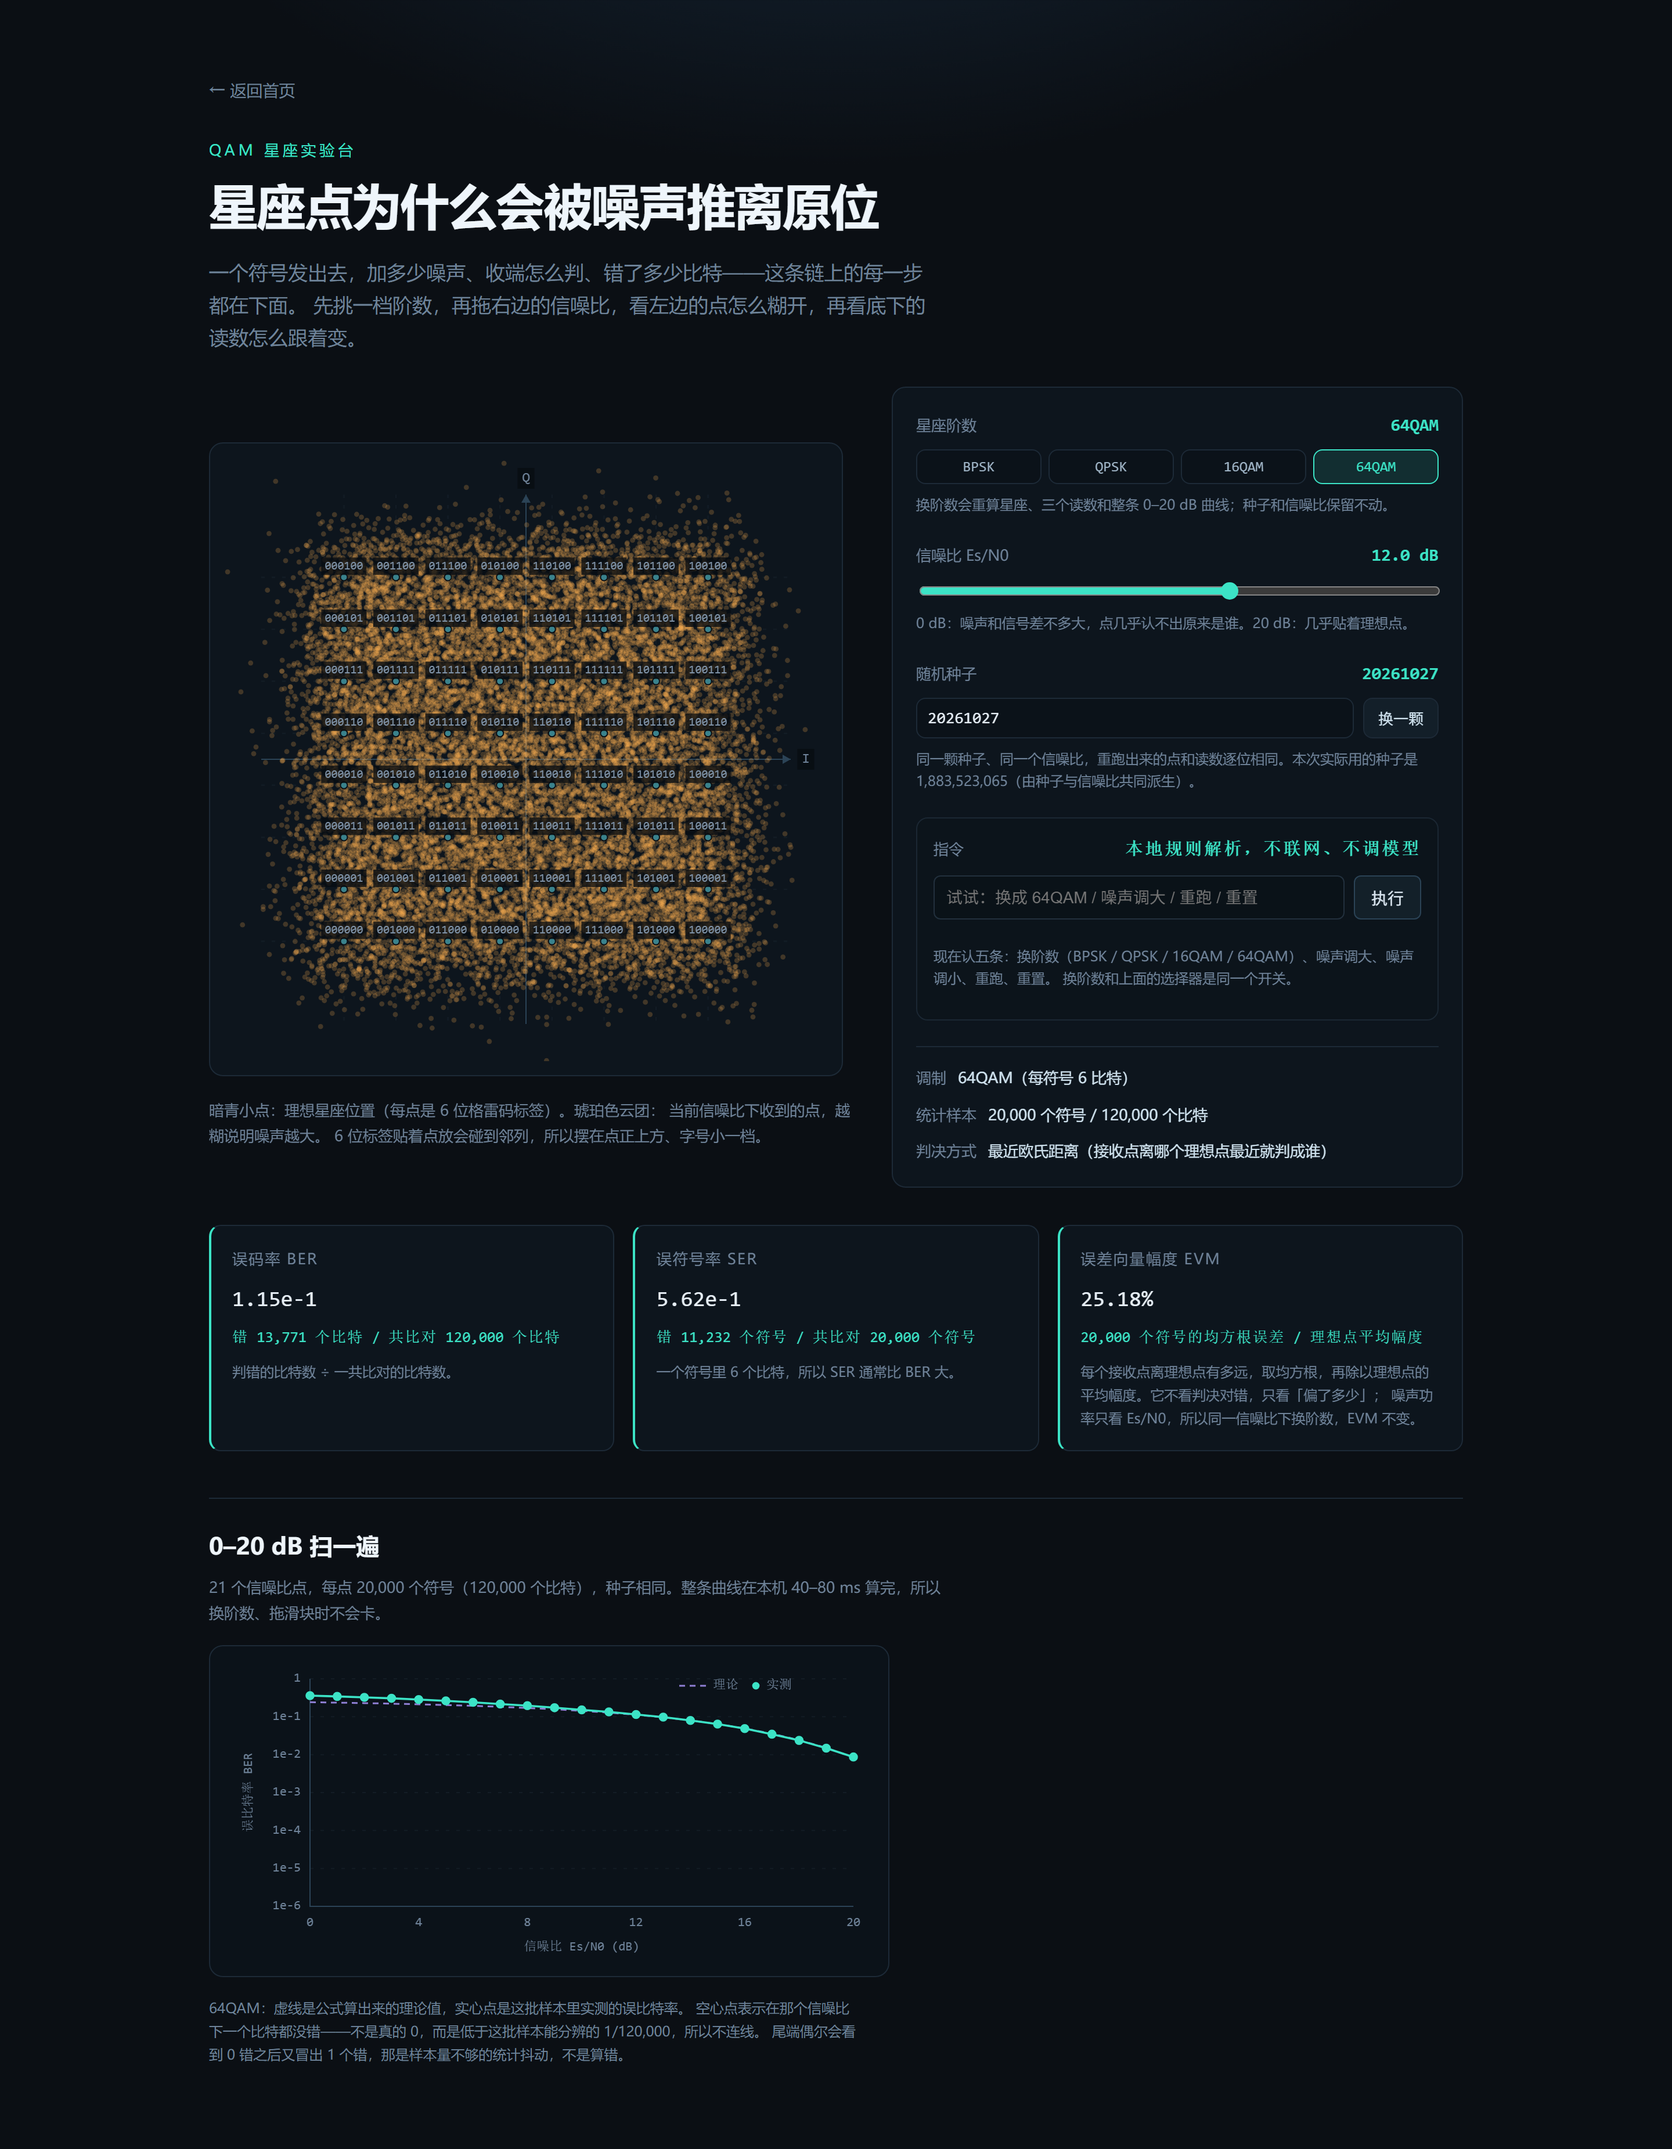
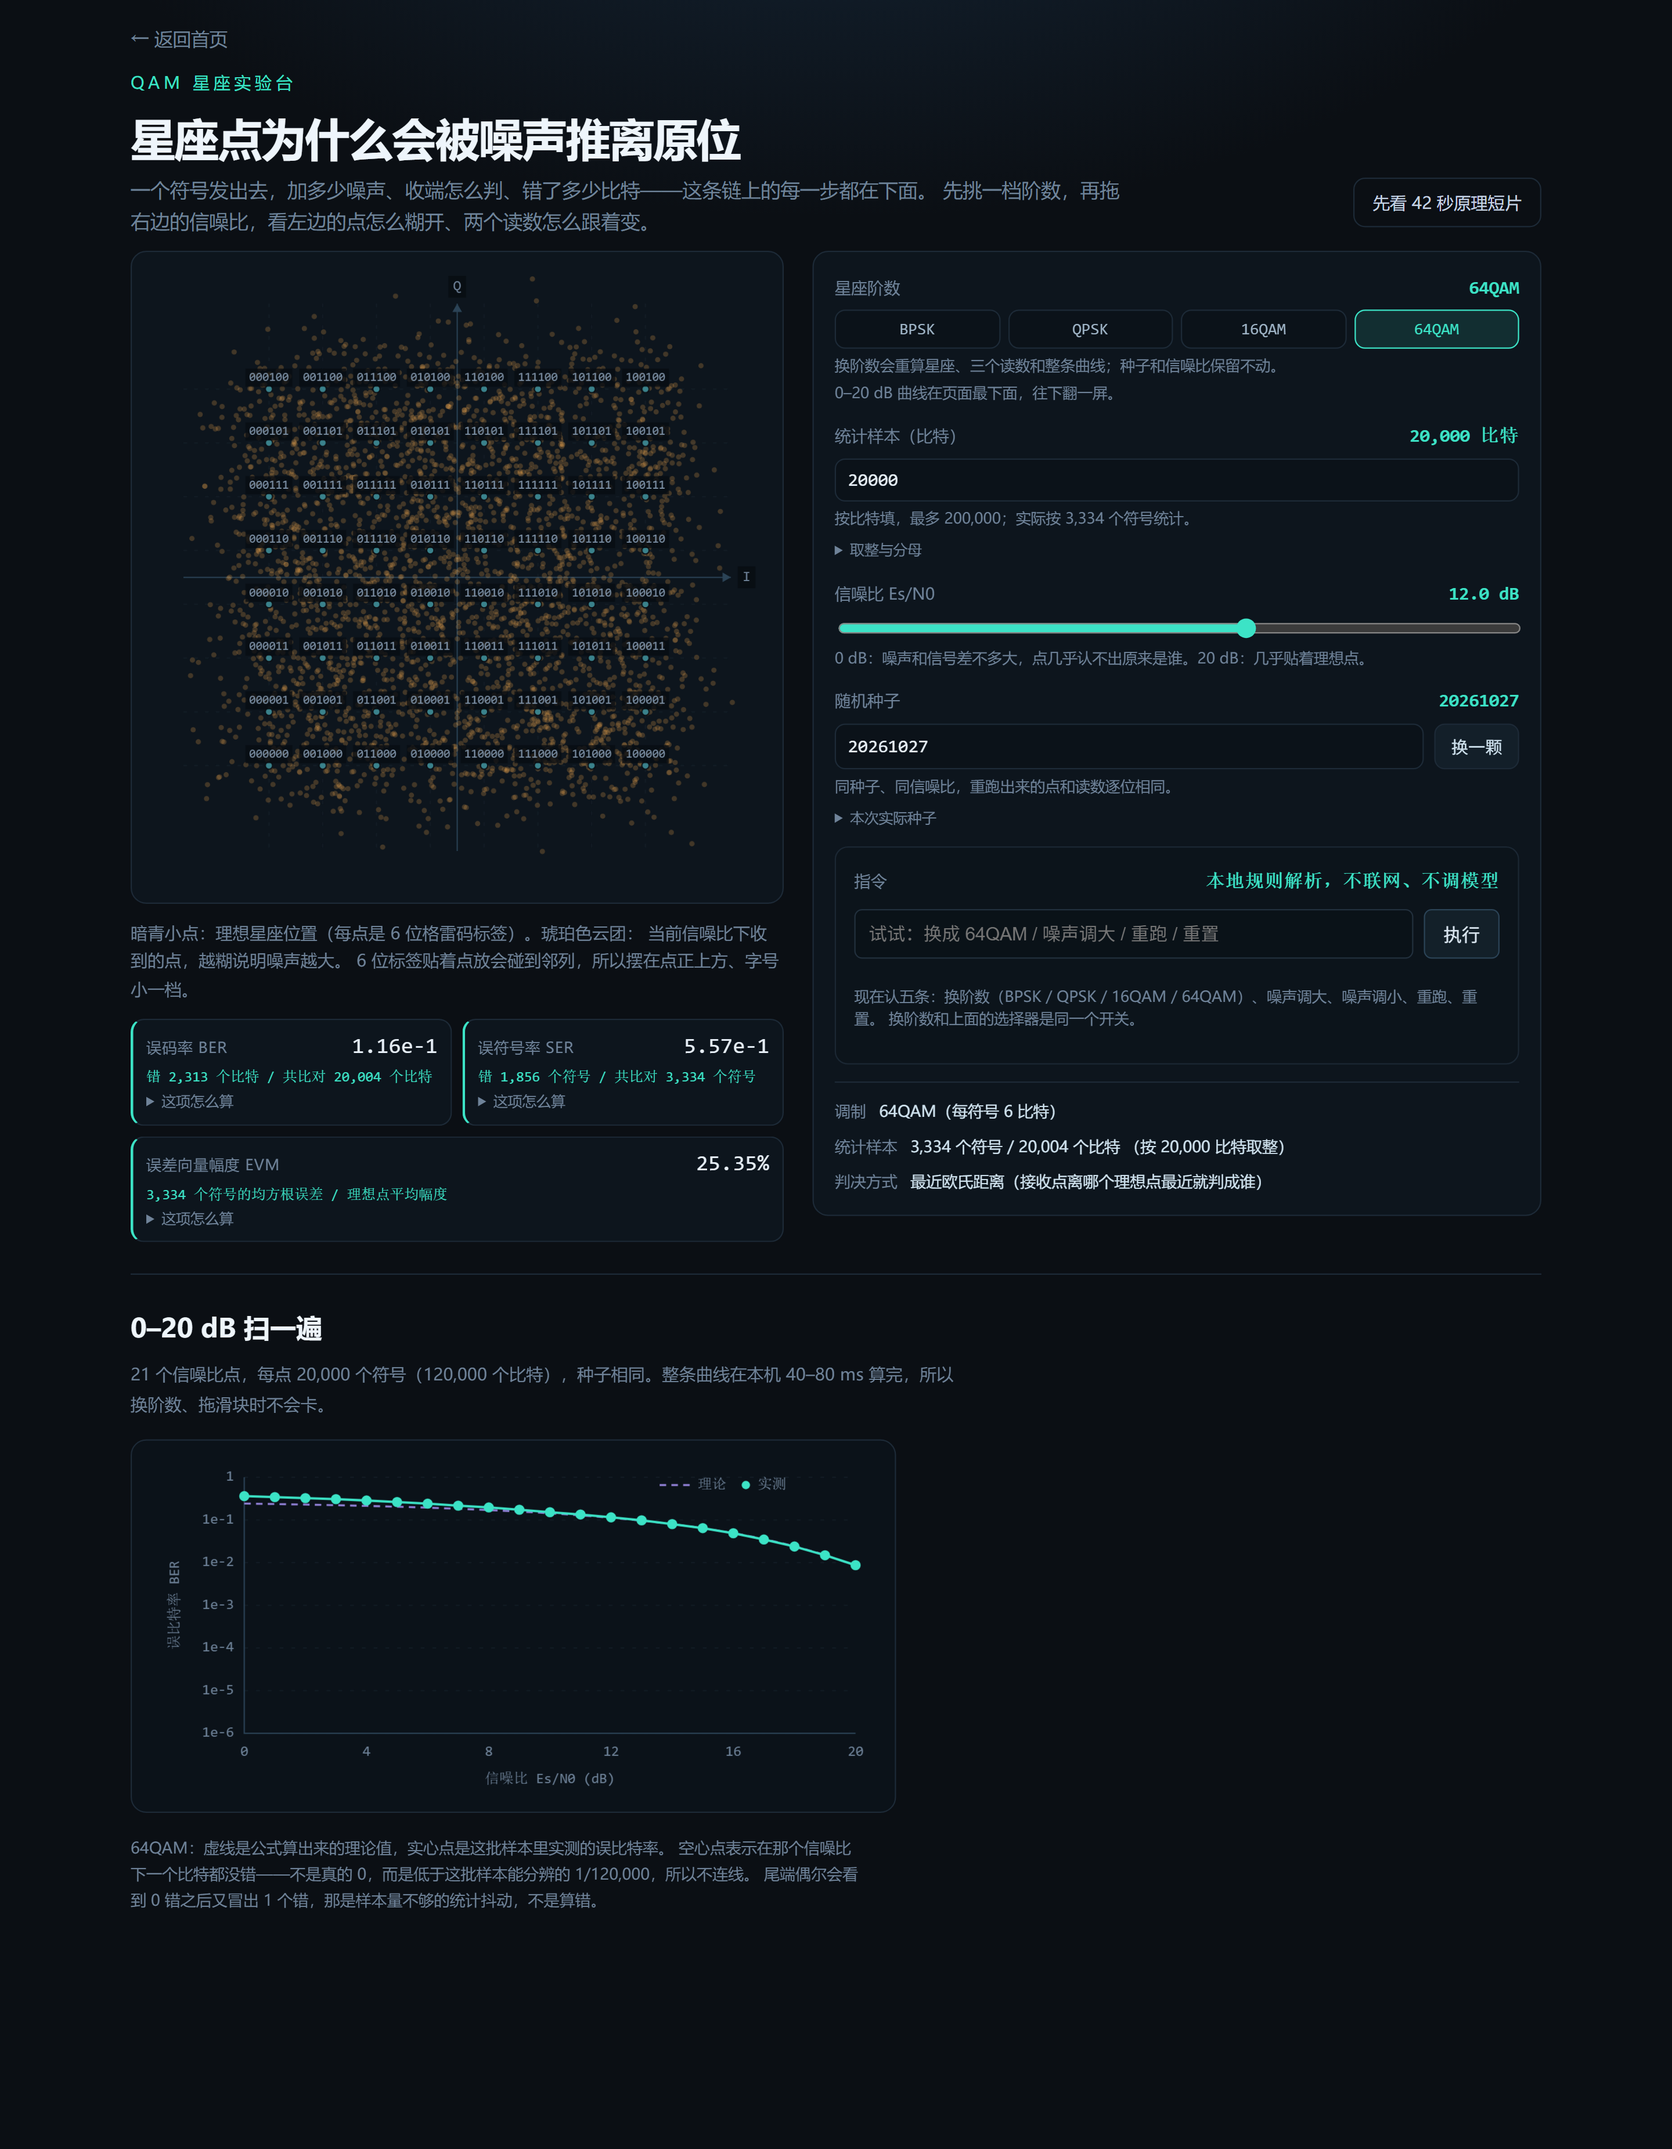
docs(images): 六张文档图重截与指路校订 [R21]

diff --git a/docs/preview.md b/docs/preview.md
@@ -17,13 +17,13 @@
 ## 二、怎么用
 
 1. 打开 https://240000000.github.io/comm-lab/ 。首页是四张卡片，四张现在都能点进去。
-2. 点第一张「QAM 星座实验台」。左边是星座图，右边是控件。
+2. 点第一张「QAM 星座实验台」。左边是星座图，右边是阶数、信噪比等控件。
 3. 把右边的「信噪比 Es/N0」滑块从 20 dB 往左拖。20 dB 时 EVM 约 10%，点基本贴着理想位置；拖到 12 dB，每个点变成一小团；拖到 0 dB，整片都是琥珀色的散点，已经分不出原来那个点在哪。
-4. 看下面三个读数：误码率、误符号率、误差向量幅度。每个数字后面都写着它是多少个符号、多少个比特算出来的——0 dB 时误码率是 2.86e-1，括号里写「错 22,916 个比特 / 共比对 80,000 个比特」。
-5. 再往下是 0–20 dB 的误码率曲线，灰色虚线是公式算的理论值，实心点是这批样本实测的。
-6. 回首页点第二张「卷积码与 Viterbi」。上面是一条 12 比特短序列的四行：原始、编码后、加噪后、译码后，琥珀色格子是接收端被打翻的、红色是译码后还错的。右边可以关掉噪声，也可以手动翻 2 位、翻一片 4 位，再切硬判决和软判决两套译码器；下面三条线是同一批信噪比下不编码、硬判决、软判决的误码率对照。
-7. 回首页点第三张「OFDM 时频链路」。右边两个滑块：循环前缀长度（默认 16）和延时径的延时（默认 9）。延时不超过 CP 时，左边的时域图上紫色虚线只落在 CP 的浅色底里，下方「有 CP」的误符号率写「这次没出错」，「没有 CP」那边已经错了 254 个符号；把延时拖到 21，灰色提示变成「拖尾压进数据段 5 个采样」，两条误符号率一起往上走。最下面是 64 个子载波上的接收点，有 CP / 无 CP 并排。
-8. 回首页点第四张「任务模式」。五道小题，答案都要回到前三页自己摆参数、读数字才能填。填完点判分，对错和理由一条条列出来，右上角是得分。每道题下面都写着「去 QAM 页复现」这类链接，点过去参数就照题目说的摆。
+4. 看星座下方这三个读数：误码率、误符号率、误差向量幅度。每个数字后面都写着它是多少个符号、多少个比特算出来的——0 dB 时误码率是 2.86e-1，括号里写「错 22,916 个比特 / 共比对 80,000 个比特」。
+5. 再往下翻一屏是 0–20 dB 的误码率曲线，灰色虚线是公式算的理论值，实心点是这批样本实测的。
+6. 回首页点第二张「卷积码与 Viterbi」。左边是一条 12 比特短序列的四行：原始、编码后、加噪后、译码后，琥珀色格子是接收端被打翻的、红色是译码后还错的。右边一栏可以关掉噪声，也可以手动翻 2 位、翻一片 4 位，再切硬判决和软判决两套译码器；下面三条线是同一批信噪比下不编码、硬判决、软判决的误码率对照。
+7. 回首页点第三张「OFDM 时频链路」。上半屏并排两张图：左边是一个 OFDM 符号的时域波形，右边是 64 个子载波上的接收点。图下一条横栏放循环前缀长度（默认 16）和延时径的延时（默认 9）。延时不超过 CP 时，时域图上紫色虚线只落在 CP 的浅色底里，下方「有 CP」的误符号率写「这次没出错」，「没有 CP」那边已经错了 254 个符号；把延时拖到 21，横栏下那行提示变成「拖尾压进数据段 5 个采样」，横栏右端两条误符号率一起往上走。
+8. 回首页点第四张「任务模式」。五道小题，答案都要回到前三页自己摆参数、读数字才能填。填完点判分，对错和理由一条条列在本题下面，五题下面是得分条；单题「判定」只判这一题，不计入总分。每道题下面都写着「去 QAM 页复现」这类链接，点过去参数就照题目说的摆。
 9. 同一页往下是「你自己出题」：先选题型，再填它自己的那几项。QAM 是四档阶数、信噪比 0–20 dB、统计比特数（默认 20,000）；卷积码是每信息比特 Eb/N0、信息比特数（1–12，和短序列一样宽）、开不开噪声；OFDM 是 CP 长度、延时、符号数。点「生成一道题」，题目问这组参数下的误码率（QAM）或错比特数（卷积）、错符号数（OFDM），自己填答案、点判分。题下有一行「用这组参数去实验台」，点过去地址里带着参数，对应页把控件原样填好，并留一行小字说明参数是哪道题带来的；点「还原默认」清掉参数回到默认值。答完点「保存这道题」，刷新页面它还在列表里，删除后刷新就不再出现。
 
 ## 三、现在做到哪一步

diff --git a/docs/video-script.md b/docs/video-script.md
@@ -35,9 +35,9 @@
 >
 > 我往左拖。12 dB，每个点开始变成一小团——这就是噪声把它推离原位的样子。再往左，0 dB，整片都是散的，已经分不出原来那个点在哪儿了。
 >
-> 看下面这三个数。误码率 2.86e-1，括号里是「错 22,916 个比特，共比对 80,000 个比特」——每个数都带着分母，不给你一个孤零零的小数。中间是误符号率，右边是误差向量幅度，99.62%，意思是接收点离理想位置的平均距离，差不多是理想幅度本身那么远。
+> 看星座下方这三个数。误码率 2.86e-1，括号里是「错 22,916 个比特，共比对 80,000 个比特」——每个数都带着分母，不给你一个孤零零的小数。中间是误符号率，右边是误差向量幅度，99.62%，意思是接收点离理想位置的平均距离，差不多是理想幅度本身那么远。
 >
-> 再往下这条曲线，横轴 0 到 20 dB，灰虚线是公式算的，实心点是这批样本实测的。20 dB 那个位置画的是个空心圈，因为这一批八万个比特里一个都没错——能分辨的最小误码率就是八万分之一，再低就看不见了，不是真的零。
+> 再往下翻一屏，这条曲线横轴 0 到 20 dB，灰虚线是公式算的，实心点是这批样本实测的。20 dB 那个位置画的是个空心圈，因为这一批八万个比特里一个都没错——能分辨的最小误码率就是八万分之一，再低就看不见了，不是真的零。
 
 ## 1:40–2:40 卷积码：翻两位纠回来，翻四位纠不回来
 
@@ -45,13 +45,13 @@
 
 **嘴里说：**
 
-> 换到卷积码。上面这条是 12 个比特，四行摊开：原始、编码后、加噪后、译码后。编码器约束长度 3、码率一半，12 位编成 28 位，末尾那两位淡灰色的是补零——补零是为了让码字结束在一个确定的状态上，不然译码器回溯的时候不知道该从哪儿收尾。
+> 换到卷积码。左边这条是 12 个比特，四行摊开：原始、编码后、加噪后、译码后。编码器约束长度 3、码率一半，12 位编成 28 位，末尾那两位淡灰色的是补零——补零是为了让码字结束在一个确定的状态上，不然译码器回溯的时候不知道该从哪儿收尾。
 >
 > 我先把噪声关掉，这样加噪后那行跟编码后一模一样。现在手动翻两位——看，第四格和第十八格变成琥珀色，这是接收端被打翻的比特。译码之后，12 位全对，它把这两位纠回来了。页面下面这行字写的是「手动翻了 2 位，译码后原样回来了」。
 >
 > 再翻一片四位。这次它纠不回来——琥珀色有四个，译完之后还有一个格子是红的。页面照实写「还有 1 位没纠回来」，不替我圆。这个码算出来的自由距离是 5，纠错能力是两位，超过两位就超出它的能力范围了，翻四位纠不回来是正常的。
 >
-> 可以切硬判决和软判决两套译码器。下面这条曲线是三条线：不编码、硬判决、软判决。软判决压过硬判决——2 dB 那个点，硬判决错了 1,562 个比特，软判决错 232 个，两边都是 20,000 个比特。差这么多，是因为它不先把幅度切成比特，保留了「离门限多远」这层信息。
+> 可以切硬判决和软判决两套译码器。再往下翻一屏，这条曲线是三条线：不编码、硬判决、软判决。软判决压过硬判决——2 dB 那个点，硬判决错了 1,562 个比特，软判决错 232 个，两边都是 20,000 个比特。差这么多，是因为它不先把幅度切成比特，保留了「离门限多远」这层信息。
 
 ## 2:40–4:40 AI 协作：我是怎么指挥它的（这段至少两分钟）
 

diff --git a/docs/shooting-list.md b/docs/shooting-list.md
@@ -27,7 +27,7 @@
 | 0:30–0:45 | QAM 页，点第一张卡进 | 信噪比 12.0 dB，种子 20261027，默认状态 | 点卡片进页，停 2 秒让画面稳住 | 这是十六点 QAM，每个点旁四位是格雷码标签；右边滑块是信噪比，现在停在十二分贝。 |
 | 0:45–1:05 | QAM 页 | 拖到 20.0 dB | 抓住滑块拖到最右端，停 3 秒 | 先拖到最右。点几乎贴在理想位置上，误差向量幅度大概百分之十。 |
 | 1:05–1:25 | QAM 页 | 从 20 慢慢拖到 0 dB，在 12 dB 停 3 秒 | 慢慢往左拖，别一把拉到底 | 再慢慢往左。十二分贝，每个点开始变成一小团，这就是噪声把它推离原位；到零分贝，十六团已经糊成一片。 |
-| 1:25–1:35 | QAM 页，读数区 | 0 dB | 光标点一下最左边那张读数卡 | 误码率二点八六乘十的负一次方，括号里写着错了两万两千九百一十六个比特、共比对八万个——每个数都带着分母。 |
+| 1:25–1:35 | QAM 页，星座下方读数区 | 0 dB | 光标点一下读数区最左边那张卡 | 误码率二点八六乘十的负一次方，括号里写着错了两万两千九百一十六个比特、共比对八万个——每个数都带着分母。 |
 | 1:35–1:40 | QAM 页，曲线区 | 0 dB | 光标停在第 20 dB 那个空心圈上 | 曲线最右那个空心圈，是因为这八万个比特一个都没错，不是真的零。 |
 | 1:40–1:55 | 卷积码页，回首页点第二张卡 | 信噪比 2.0 dB，噪声开，硬判决 | 进页后停 2 秒 | 换到卷积码。十二个比特摊开四行：原始、编码后、加噪后、译码后。 |
 | 1:55–2:10 | 卷积码页 | 噪声切到"关掉" | 点"关掉"，停 2 秒让两行对上 | 先把噪声关掉，加噪后这行和编码后一模一样，下面只看纠错。 |
@@ -51,7 +51,7 @@
 
 **页面白屏**：说"页面白屏了，我刷新一下"，按 F5；十秒还是白屏，接着说"那我切到本地跑，代码是同一份"，切终端敲下面两条命令，别停录。
 
-**数字对不上**：说"这个数和我记的不一样，我停一下"，然后把光标放到读数卡第二行，念括号里的分母："这里写的是八万个比特，所以我记的那个数是另一批样本"。当场确认，别含糊过去。
+**数字对不上**：说"这个数和我记的不一样，我停一下"，然后把光标放到读数卡分母那一行，念括号里的分母："这里写的是八万个比特，所以我记的那个数是另一批样本"。当场确认，别含糊过去。
 
 **录到一半发现说错了**：说"刚才那个说法不对，我重说一遍"，然后直接重说那一句，**不要停录、不要剪**。错的那句留在片子里，比剪掉更可信。
 

diff --git a/README.md b/README.md
@@ -112,7 +112,7 @@ tests/           Node 内置 test runner 的单测（npm test）
 docs/dialogues/  与 AI 协作的原始 Prompt 存档，按轮次追加
 docs/preview.md  作品介绍（给评委看的一两页）
 docs/video-script.md  录屏脚本（分段、旁白、屏幕动作）
-docs/images/     文档里引用的截图
+docs/images/     文档里引用的六张页面截图（QAM 16QAM / 64QAM / BPSK 与卷积四行、曲线）
 docs/round-checklist.md  每轮收尾的固定清单
 .github/         GitHub Pages 自动部署
 public/          静态资源
